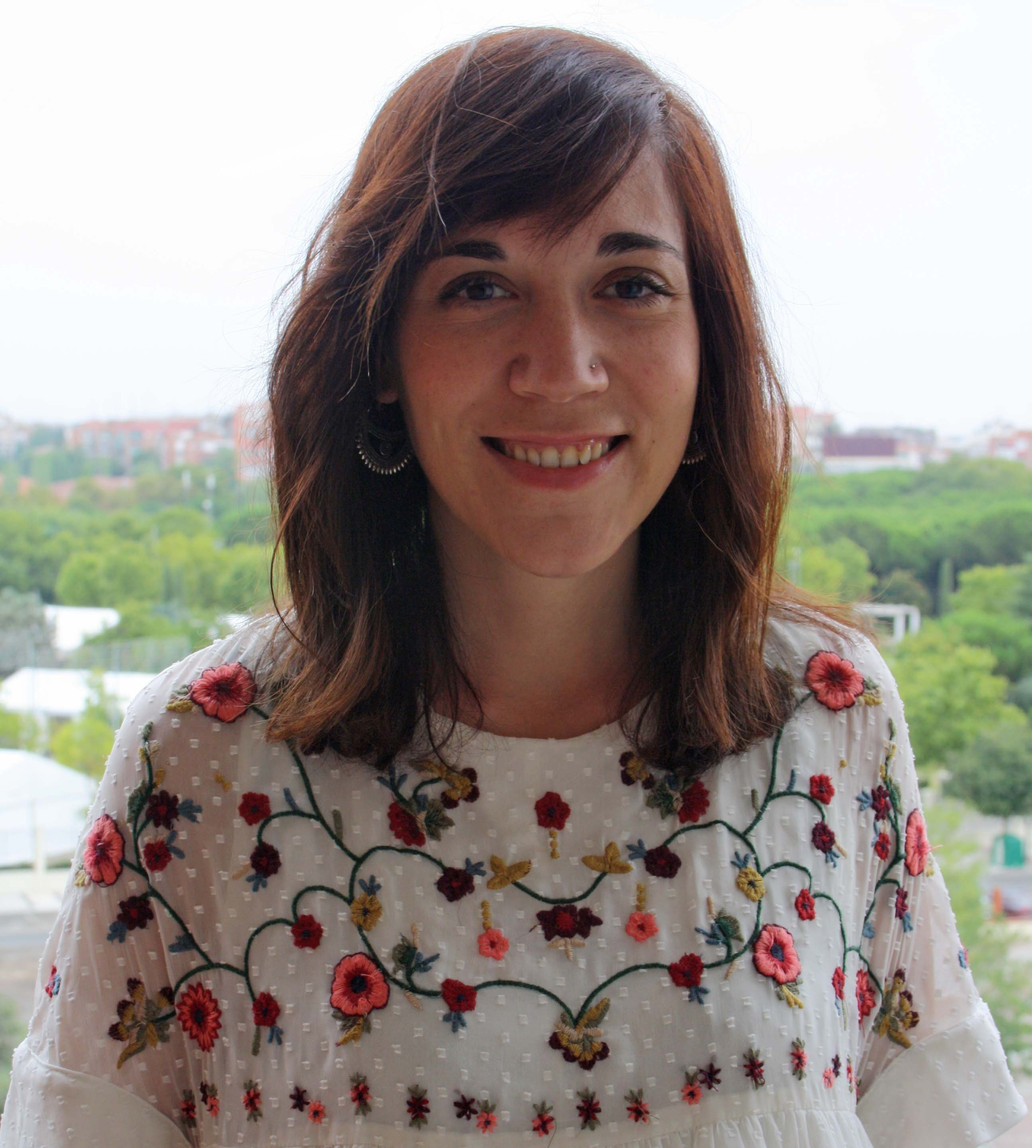
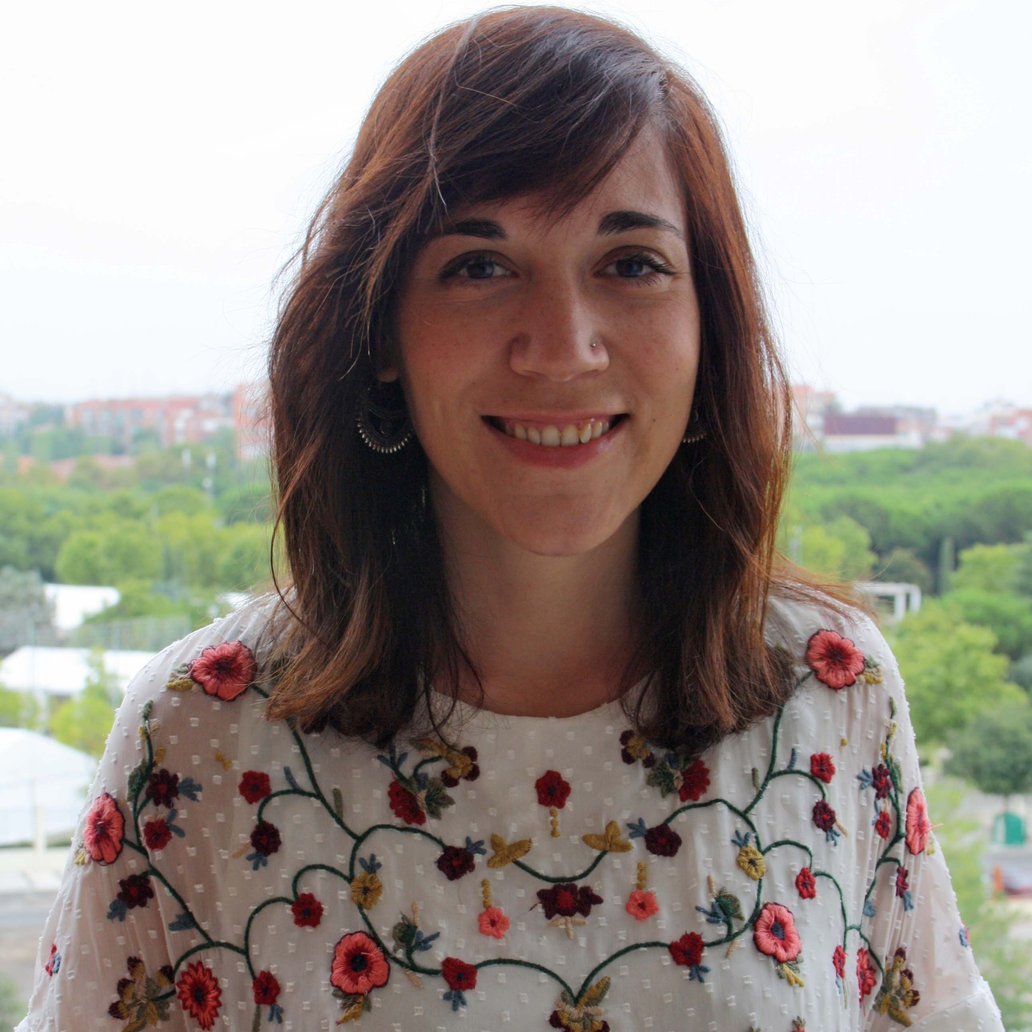
new photos

diff --git a/about/people/index.html b/about/people/index.html
@@ -279,7 +279,7 @@ author: URJCDataScience
 								<!-- team-member: start -->
 								<div class="team-member image-box style-2 mb-20 light-gray-bg text-center">
 									<div class="overlay-container overlay-visible">
-										<img src="{{ site.url }}/images/people/team-member-1.jpg" alt="Javier Gómez">
+										<img src="{{ site.url }}/images/people/Foto_JGM.jpeg" alt="Javier Gómez">
 									</div>
 									<div class="body">
 										<h4 class="margin-clear">Javier Gómez</h4>
@@ -296,7 +296,7 @@ author: URJCDataScience
 								<!-- team-member: start -->
 								<div class="team-member image-box style-2 mb-20 light-gray-bg text-center">
 									<div class="overlay-container overlay-visible">
-										<img src="{{ site.url }}/images/people/team-member-1.jpg" alt="César Alfaro">
+										<img src="{{ site.url }}/images/people/CesarAlfaro.jpg" alt="César Alfaro">
 									</div>
 									<div class="body">
 										<h4 class="margin-clear">César Alfaro</h4>
